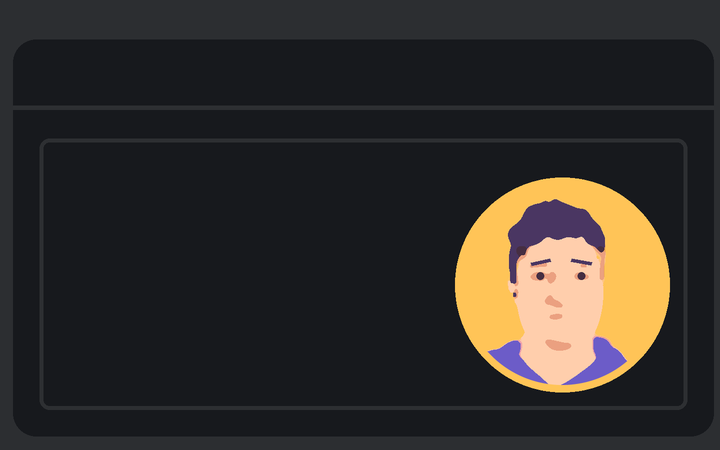
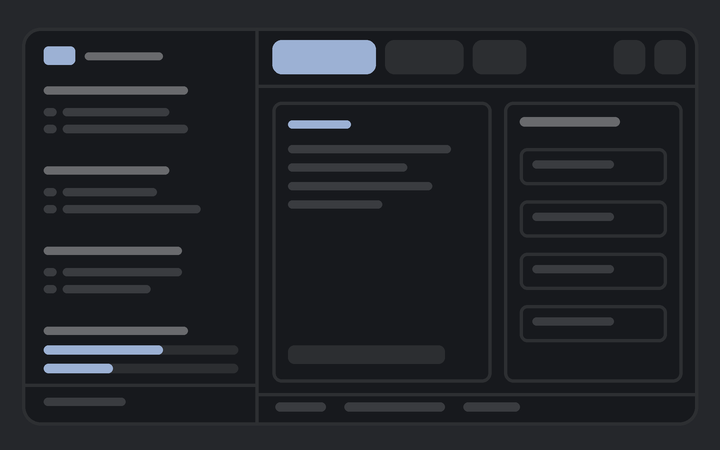
Tony preview: wireframe of the window layout

diff --git a/RECIPE.md b/RECIPE.md
@@ -319,7 +319,7 @@ No `keys.json` belongs to the Tony layout: it supplies no layout-specific key bi
 - Install all six custom mod folders, and the six listed built-ins must be available. A missing custom panel leaves a toggle without its intended content.
 - The panel toggles depend on the exact ids `panel` and `panel-body`, and child ids `files`, `changes`, `skills`, `github-tasks` and `sync`. Changing them requires changing the custom mods too.
 - The layout itself runs no external programs, reads no files outside Herdr's mod state and makes no network requests. Custom mod capabilities vary: Usage contacts Kimi on explicit refresh, Skills and GitHub Tasks (including workflows) run their CLIs and agents, and Sync runs Git, Skillshare and the configured sync script. Read their recipes before enabling those actions.
-- Tony deliberately leaves theme and font choices unset. Do not add hard-coded colors where the source uses theme tokens. The preview image is the supplied portrait as a flat cartoon avatar in the corner of the dark framed-panel dialog; it is a picker picture only, installed as `layouts/Tony.png` and not used by the layout itself.
+- Tony deliberately leaves theme and font choices unset. Do not add hard-coded colors where the source uses theme tokens. The preview image is a wireframe of the window (sidebar lists and usage meter, tab bar, terminal pane, right panel, status bar); it is a picker picture only, installed as `layouts/Tony.png` and not used by the layout itself.
 - The sidebar's own `resizable: false` does not remove Herdr commands that hide or resize it. Tony's root sets the macOS traffic-light position to `[12, 16]`.
 - Renaming any custom mod requires changing its layout reference and following the asset/self-overlay changes described in its own recipe.
 
